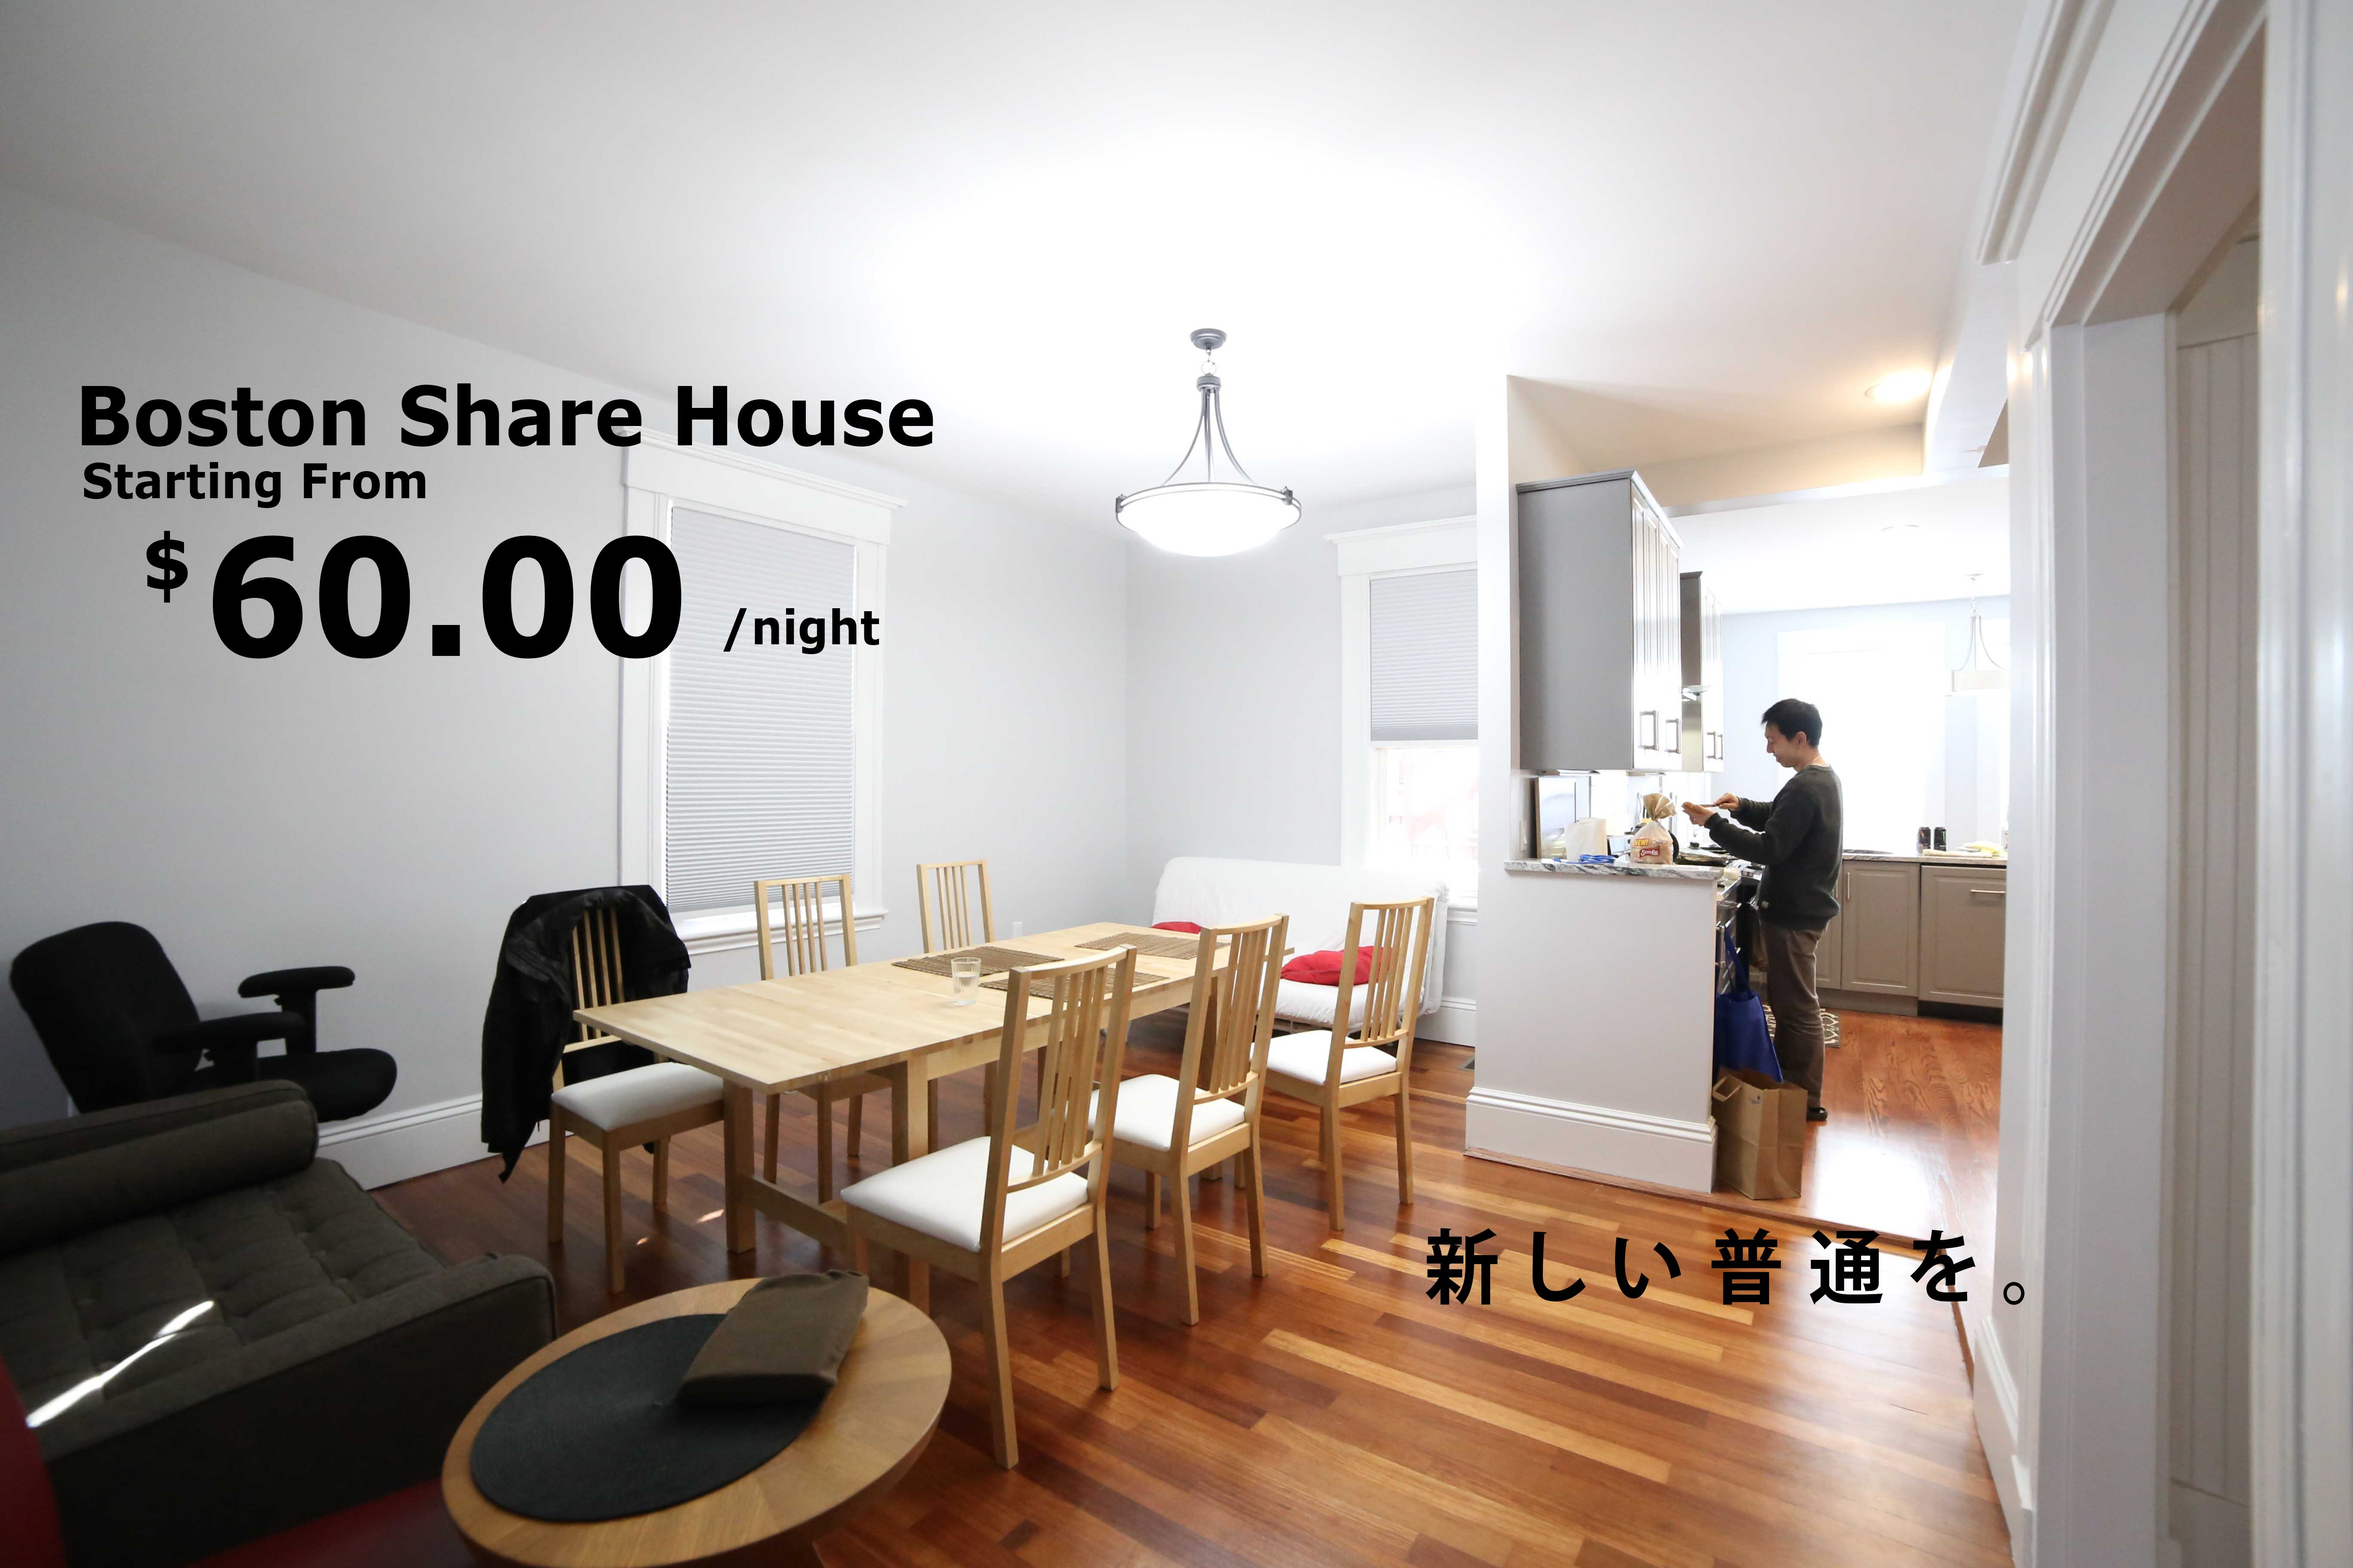
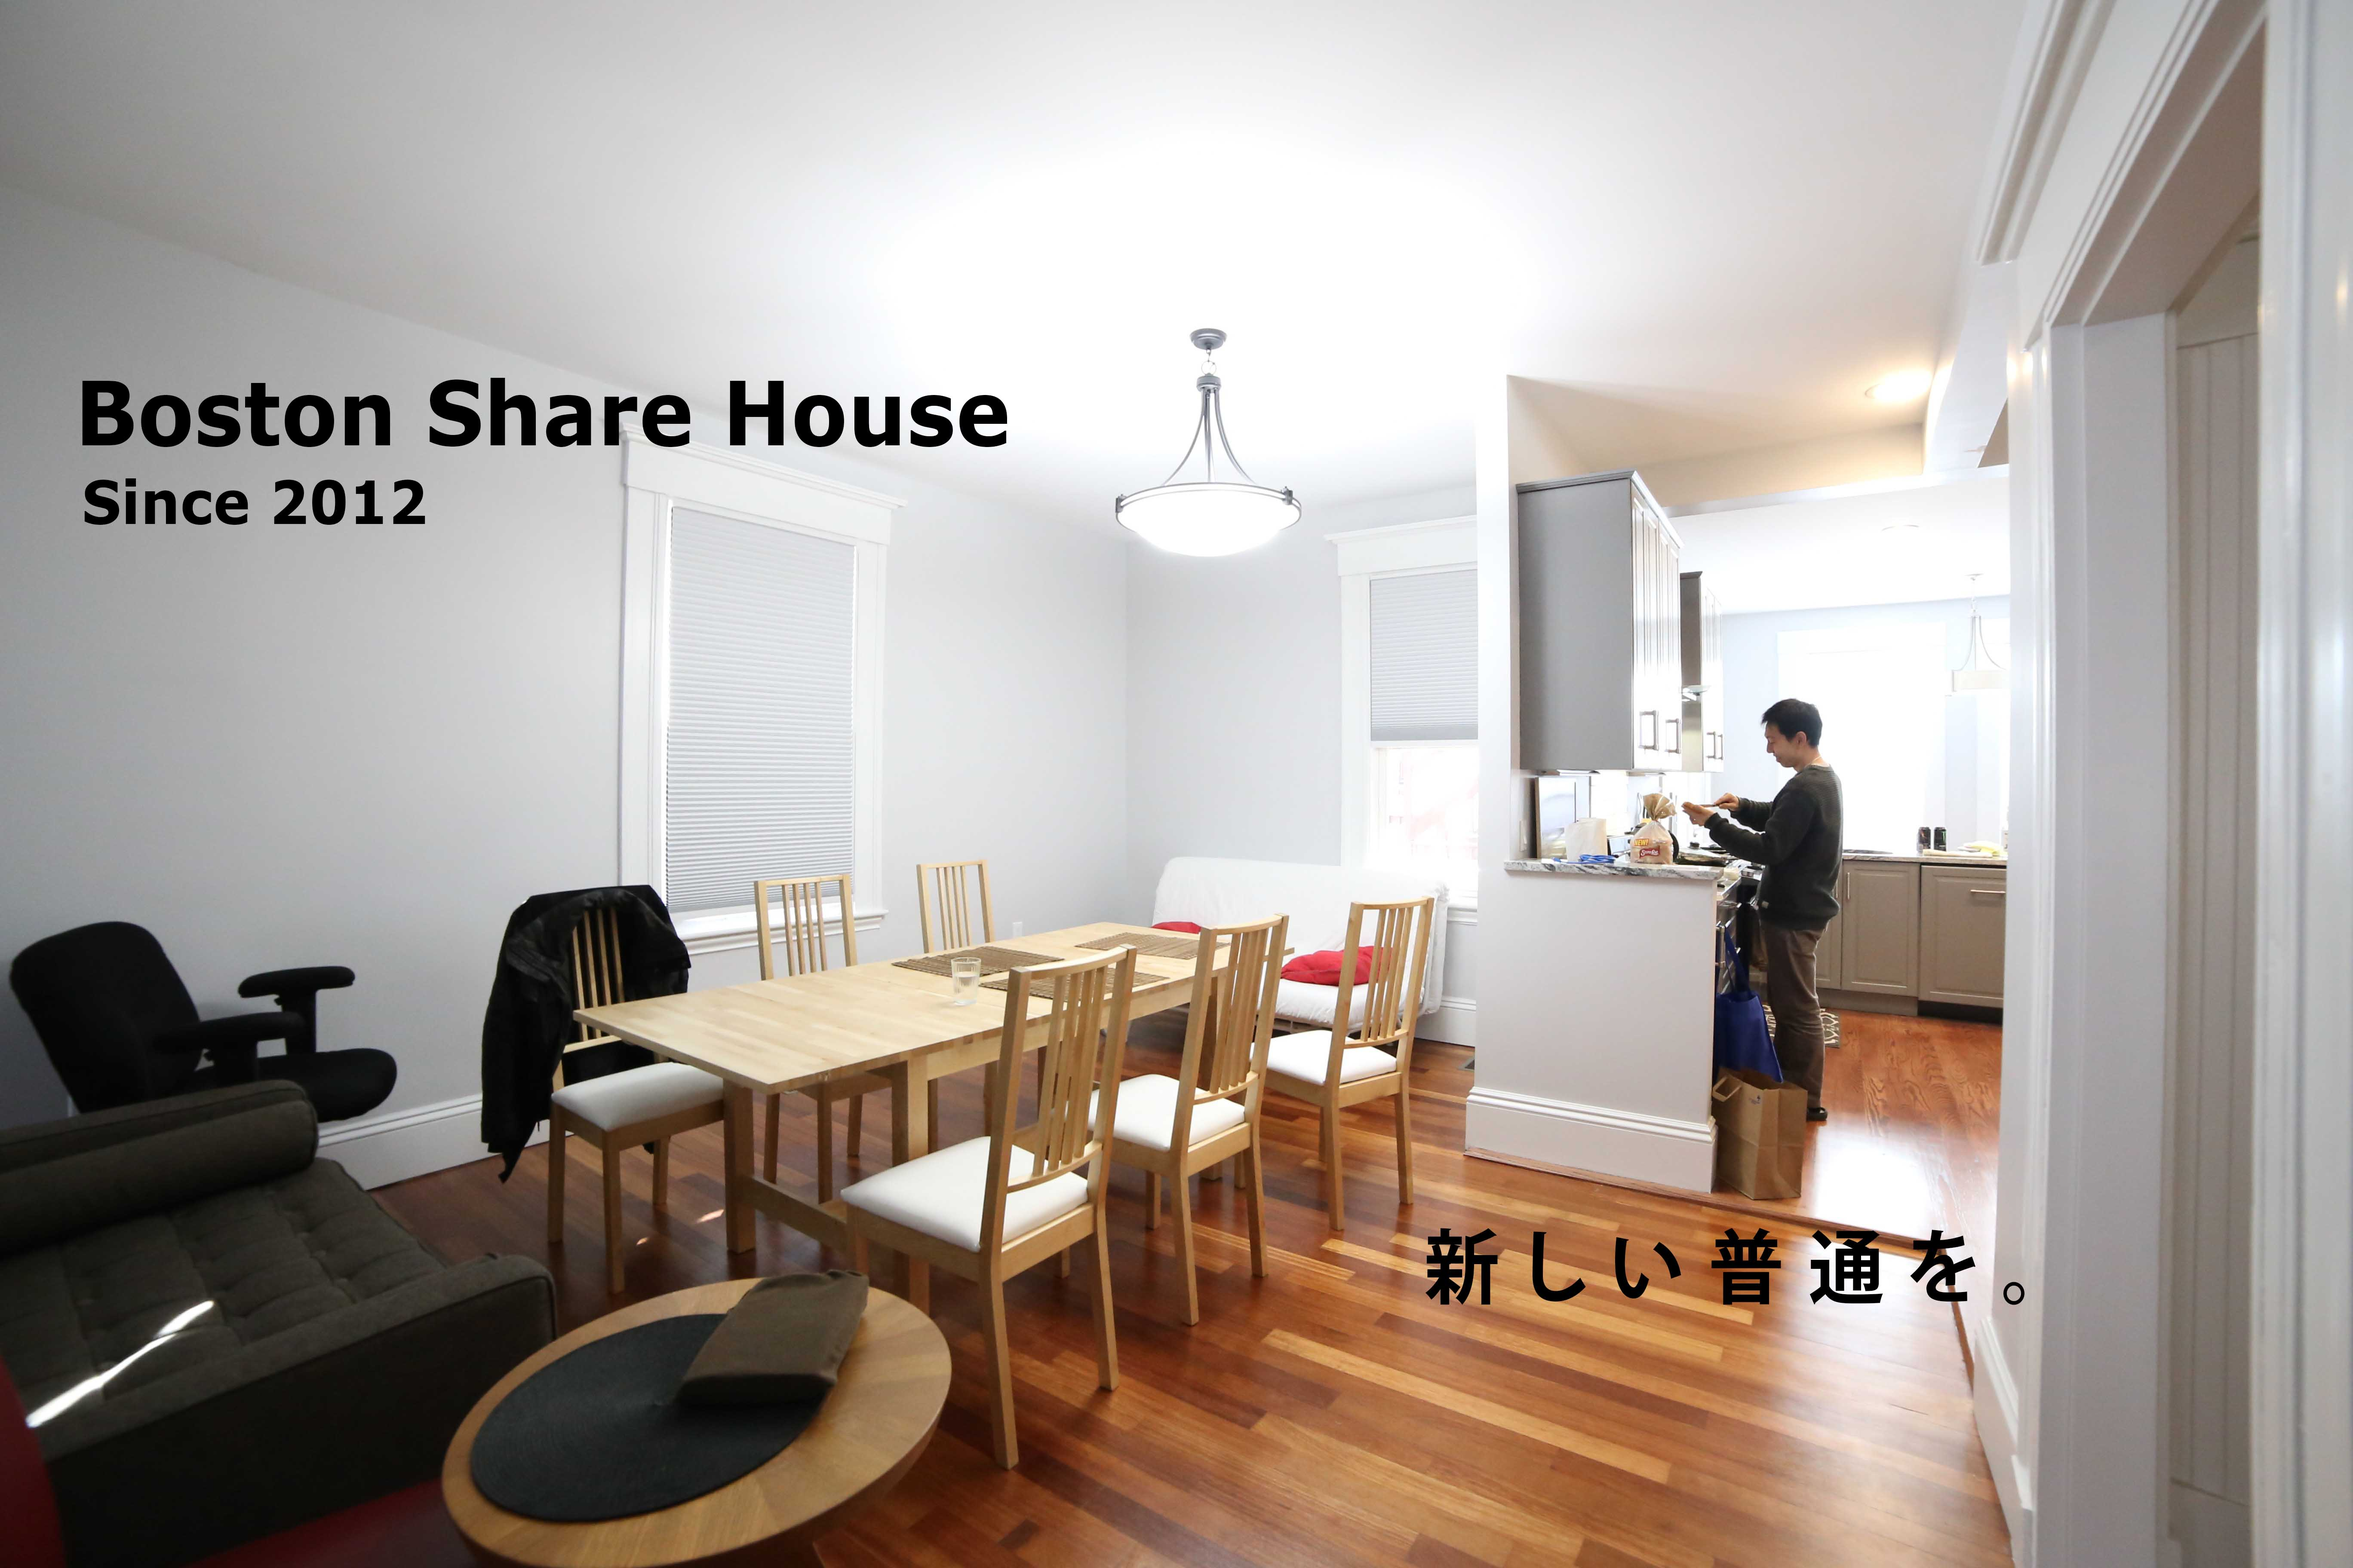
change photo

Changed region(s): [[0.0312, 0.2188, 0.4375, 0.4375]]

diff --git a/index.html b/index.html
@@ -8,7 +8,7 @@
 <script src="js/modernizr.js"></script> <!-- Modernizr -->
 
 <meta name="keywords" content="ボストン シェアハウス">
-<meta name="description" content="アオイエホールディングスは、未来を創ります。スーパー表現者集団として、アーティスト、芸術家、作家、編集者、建築家、デザイナー、エンジニア、起業家らによるコラボレーションを生み出します。">
+<meta name="description" content="Boston Sharehouse, Since 2012">
 <link rel="shortcut icon" href="">
 </head>
 <body>
@@ -47,9 +47,8 @@
       <h2 id="about">About</h2>
       <div class="content__about__bg">
         <div>
-          <div class="content__about__info">ハーバード、MIT, BU, Tuftsなど、世界の一流大学が集まっている都市、ケンブリッジ、ボストン。この街には、「海外へ留学したい、世界で学びたい」という人たちや、「とにかく世界一と呼ばれる場所にいって、いろんな人に会って刺激をうけたい」という方など、いろんな人が集まってきます。ただ残念ながら、旅行に来ただけではこの街には建物があるだけで、なかなか本来の街の良さを体験する事ができません。この街の良さは何か、それは一言で「そこにいる人々」です。ここにいる日本人は、日本から離れる一大決心をし、世界で勝負をする心構えをもった人たちです。<br>
- 
-          ボストンにいらっしゃった方々にこの場所にいる人と環境の素晴らしさが共感して頂くためには、同じ空気を吸ってもらうのが一番だと思いました。僕らが住んでいる場所に泊まってもらい、雰囲気を感じ取ってもらうためにこのシェアハウスを提供して行こうと思います。これからこの家が、ケンブリッジと日本をつなぐ場所として存在していけたら、と思います。</div>
+          <div class="content__about__info">ハーバード、MIT, BU, Tuftsなど、世界の一流大学が集まっている都市、ケンブリッジ、ボストン。この街には、「海外へ留学したい、世界で学びたい」という人や、「とにかく世界一と呼ばれる場所にいって、いろんな人に会って刺激をうけたい」という方など、いろんな人が集まってきます。ただ残念ながら、旅行に来ただけではこの街には建物があるだけで、なかなか本来の街の良さを体験する事ができません。この街の良さは何か、それは一言で「そこにいる人々」です。ここにいる日本人は、日本から離れる一大決心をし、世界で勝負をする心構えをもった人たちです。日本では会えない人たちがいます。<br>
+          ボストンにいらっしゃった方々にこの場所にいる人と環境の素晴らしさが共感して頂くためには、同じ空気を吸ってもらうのが一番だと思いました。僕らが住んでいる場所に泊まってもらい、雰囲気を感じ取ってもらうためにこのシェアハウスを提供して行こうと思います。これからこの家が、ボストンと日本をつなぐ場所として存在していけたら、と思います。</div>
         </div>
       </div>
     </section>
@@ -117,7 +116,7 @@
 
           <div class="cd-timeline-content">
             <h2>シェアハウス開始</h2>
-            <p>北川拓也（現楽天取締役）によりシェアハウス設立。当時の住人：永島岳（ハーバード応用物理学科博士課程）、井上卓馬（MIT物理学部博士課程）、友枝健太郎（ハーバード経済学部博士課程）</p>
+            <p>北川拓也（現楽天執行役員）によりシェアハウス設立。当時の住人：永島岳（ハーバード応用物理学科博士課程）、井上卓馬（MIT物理学部博士課程）、友枝健太郎（ハーバード経済学部博士課程）</p>
             <iframe class="fb_post" src="https://www.facebook.com/plugins/post.php?href=https%3A%2F%2Fwww.facebook.com%2Fbostonsharehouse2012%2Fposts%2F386971834703061&width=480" width="480" height="273" style="border:none;overflow:hidden" scrolling="no" frameborder="0" allowTransparency="true"></iframe>
             <span class="cd-date">2012年7月</span>
           </div> <!-- cd-timeline-content -->

diff --git a/css/style.css b/css/style.css
@@ -193,7 +193,7 @@ main {
 .content__about__bg {
   width: 100%;
   height: 550px;
-  background: url(../img/harvard0.jpg) no-repeat;
+  background: url(../img/harvard-02.jpg) no-repeat;
   background-size: cover;
   background-position: center;
   position: relative;
@@ -235,7 +235,7 @@ main {
 .content__vision__bg {
   width: 100%;
   height: 550px;
-  background: url(../img/mit.jpg) no-repeat;
+  background: url(../img/harvard-01.jpg) no-repeat;
   background-size: cover;
   background-position: center;
   position: relative;
